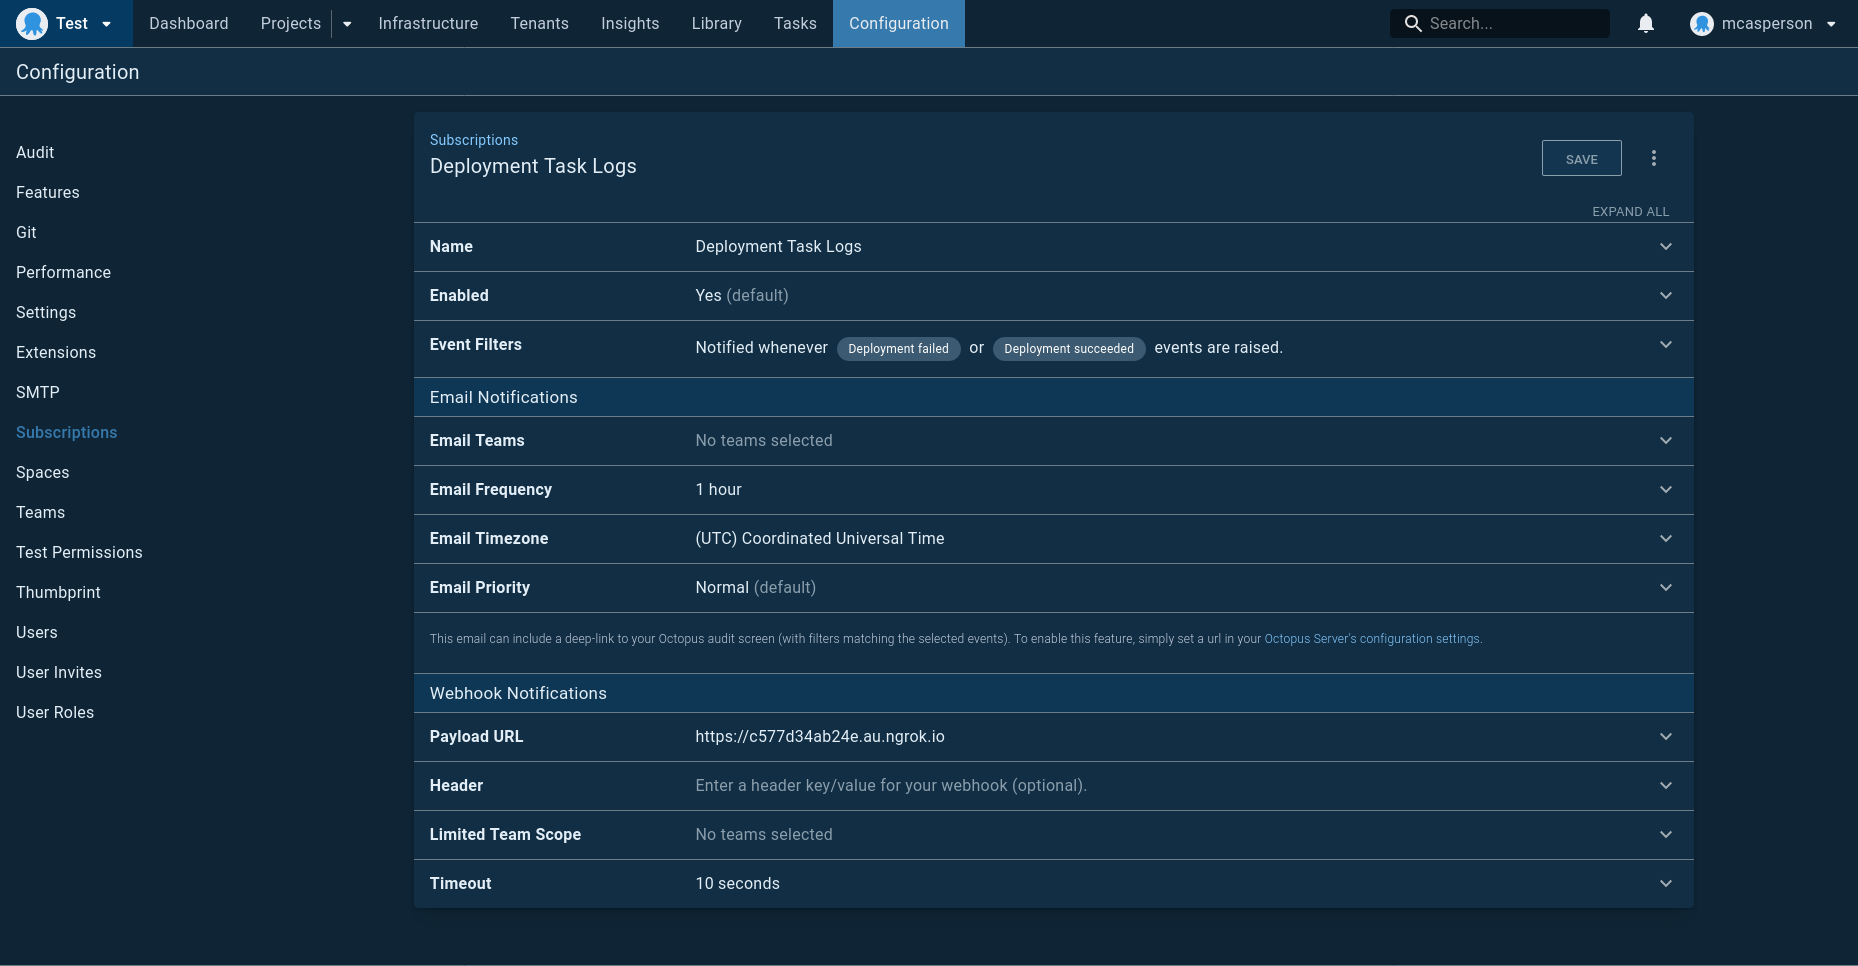
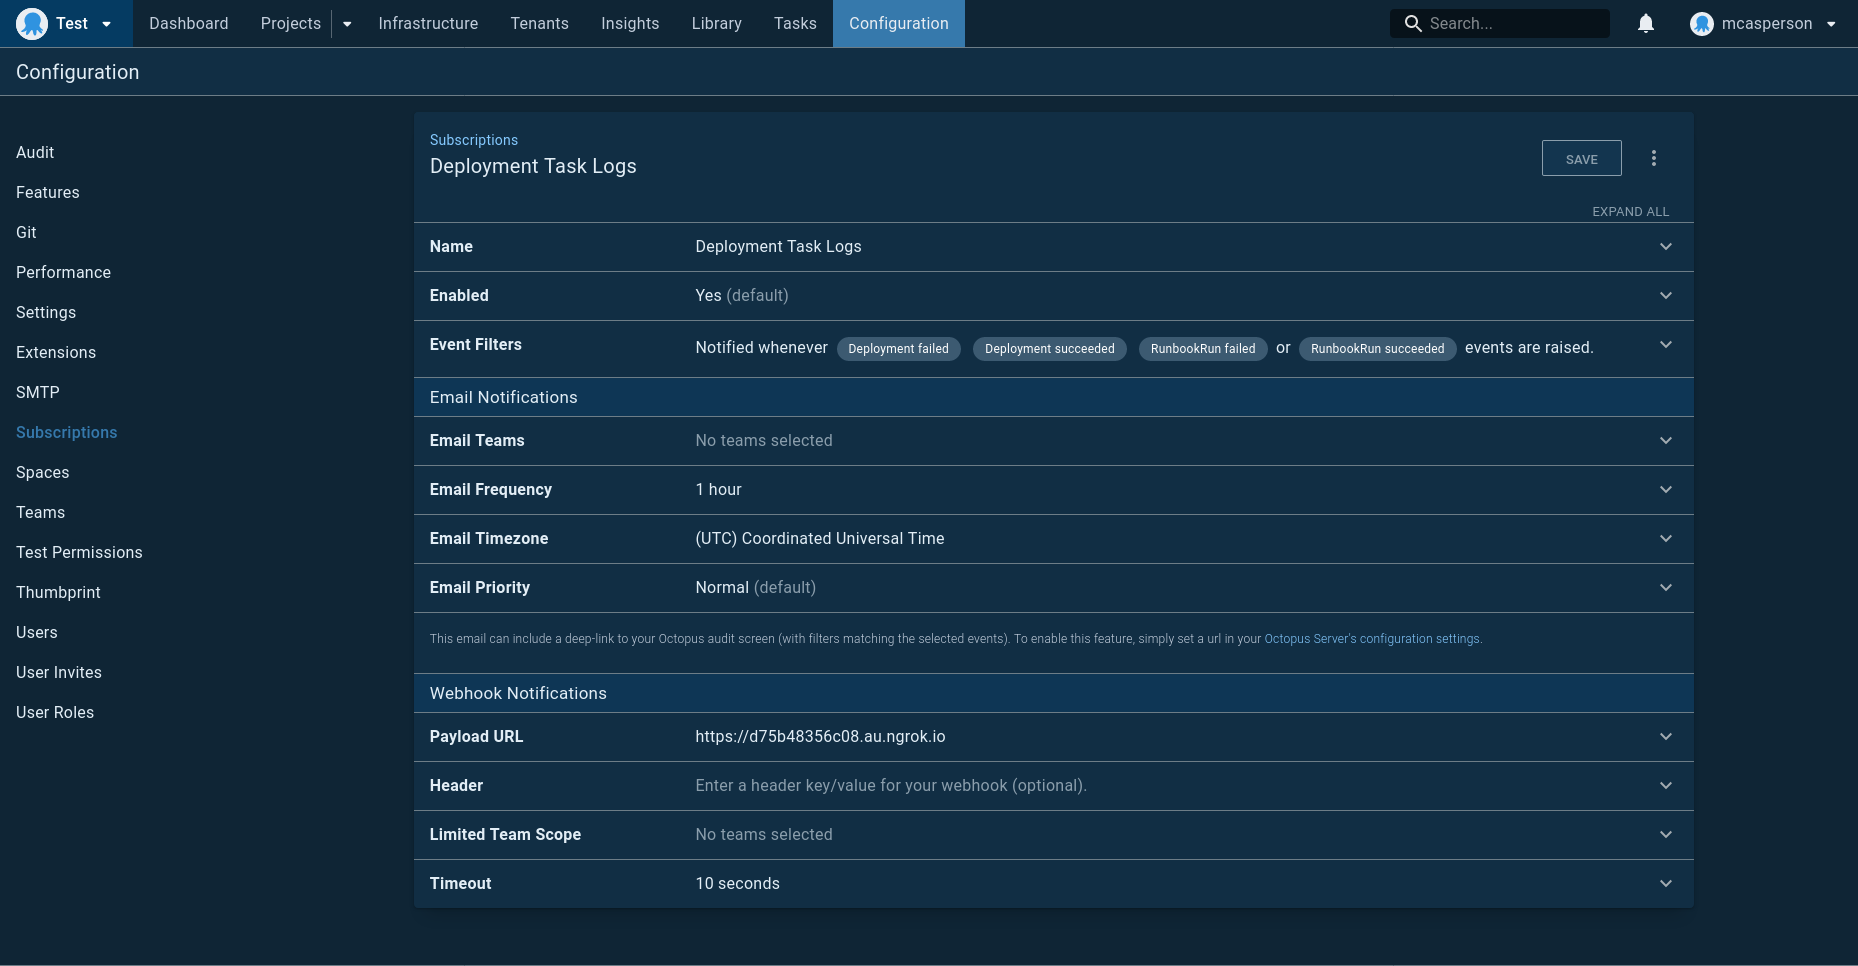
Added notes on runbook events

Changed region(s): [[0.4995, 0.3416, 0.8428, 0.3727], [0.4058, 0.7453, 0.4995, 0.7764]]

diff --git a/README.md b/README.md
@@ -1,5 +1,6 @@
 This Python application provides a web server that responds to [Octopus subscriptions](https://octopus.com/docs/administration/managing-infrastructure/subscriptions)
-like `Deployment succeeded` and `Deployment failed` and writes the associated task logs to disk.
+like `Deployment succeeded`, `Deployment failed`, `RunbookRun succeeded`, and `RunbookRun failed`, and writes the 
+associated task logs to disk.
 
 This project is intended to provide the glue between am external logging system and Octopus task logs. By having an
 external logging agent watch for new log files, Octopus task logs can be ingested into almost any external logging
